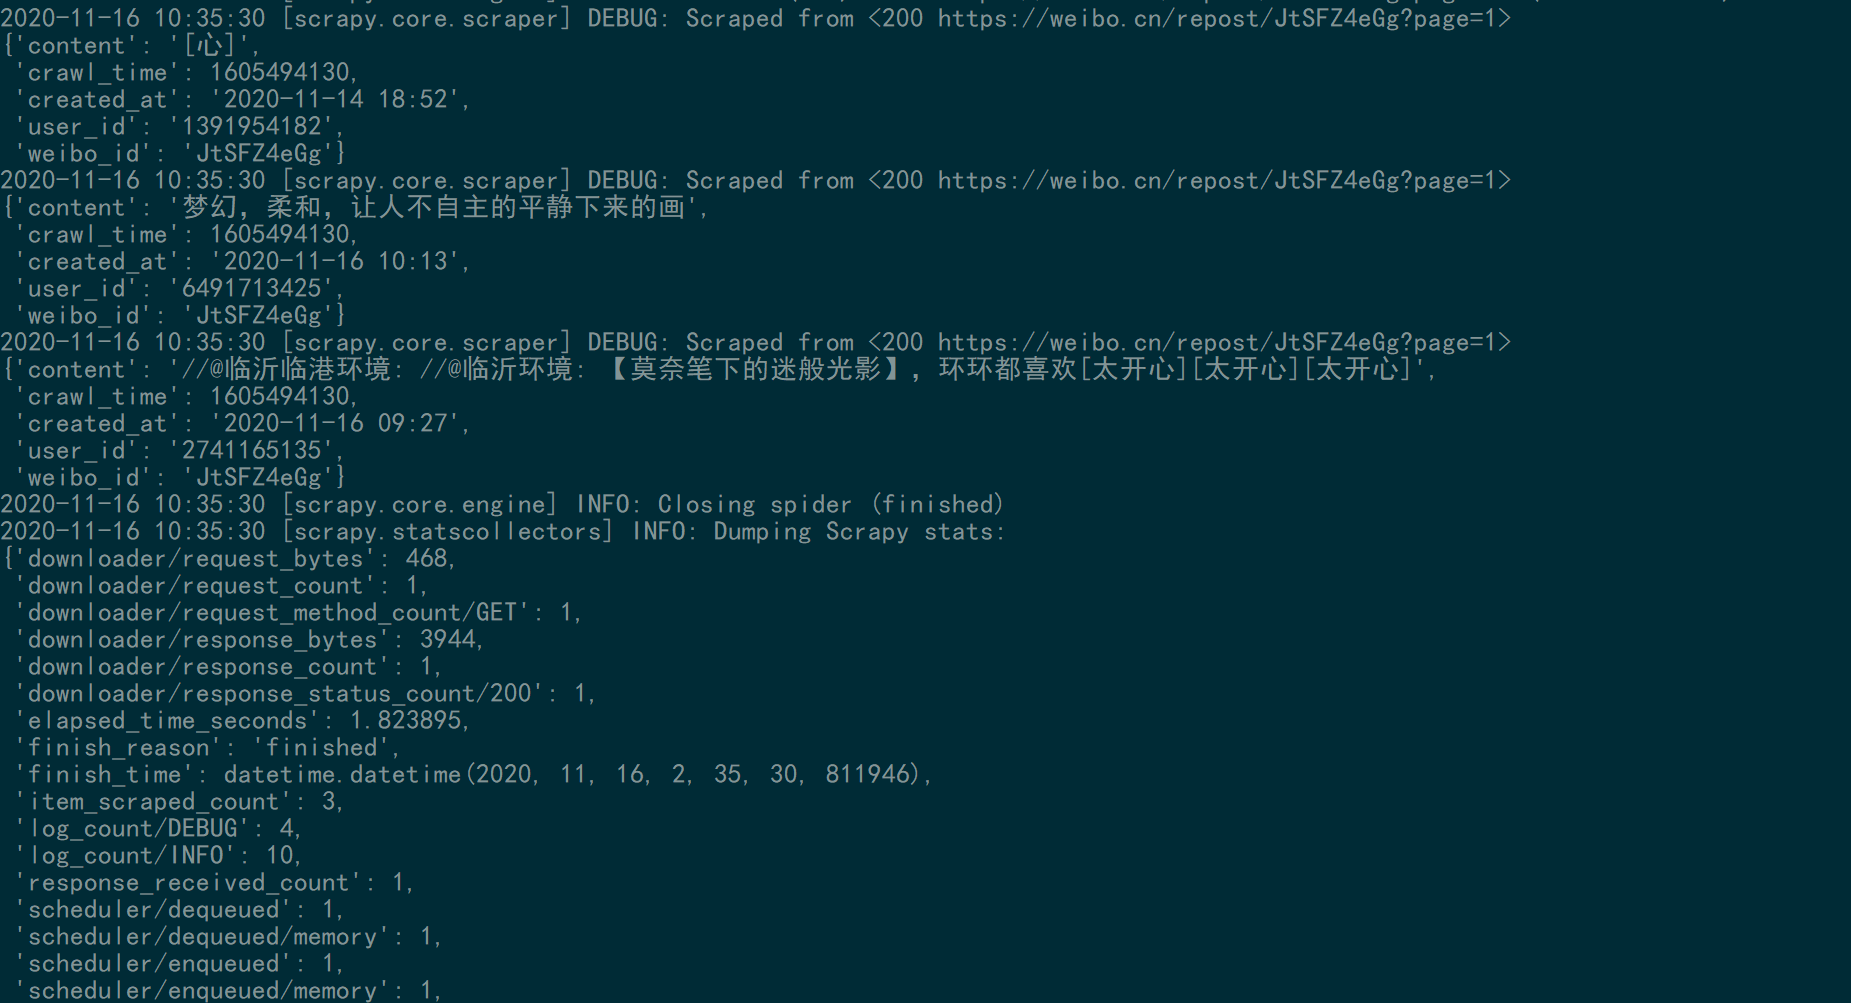
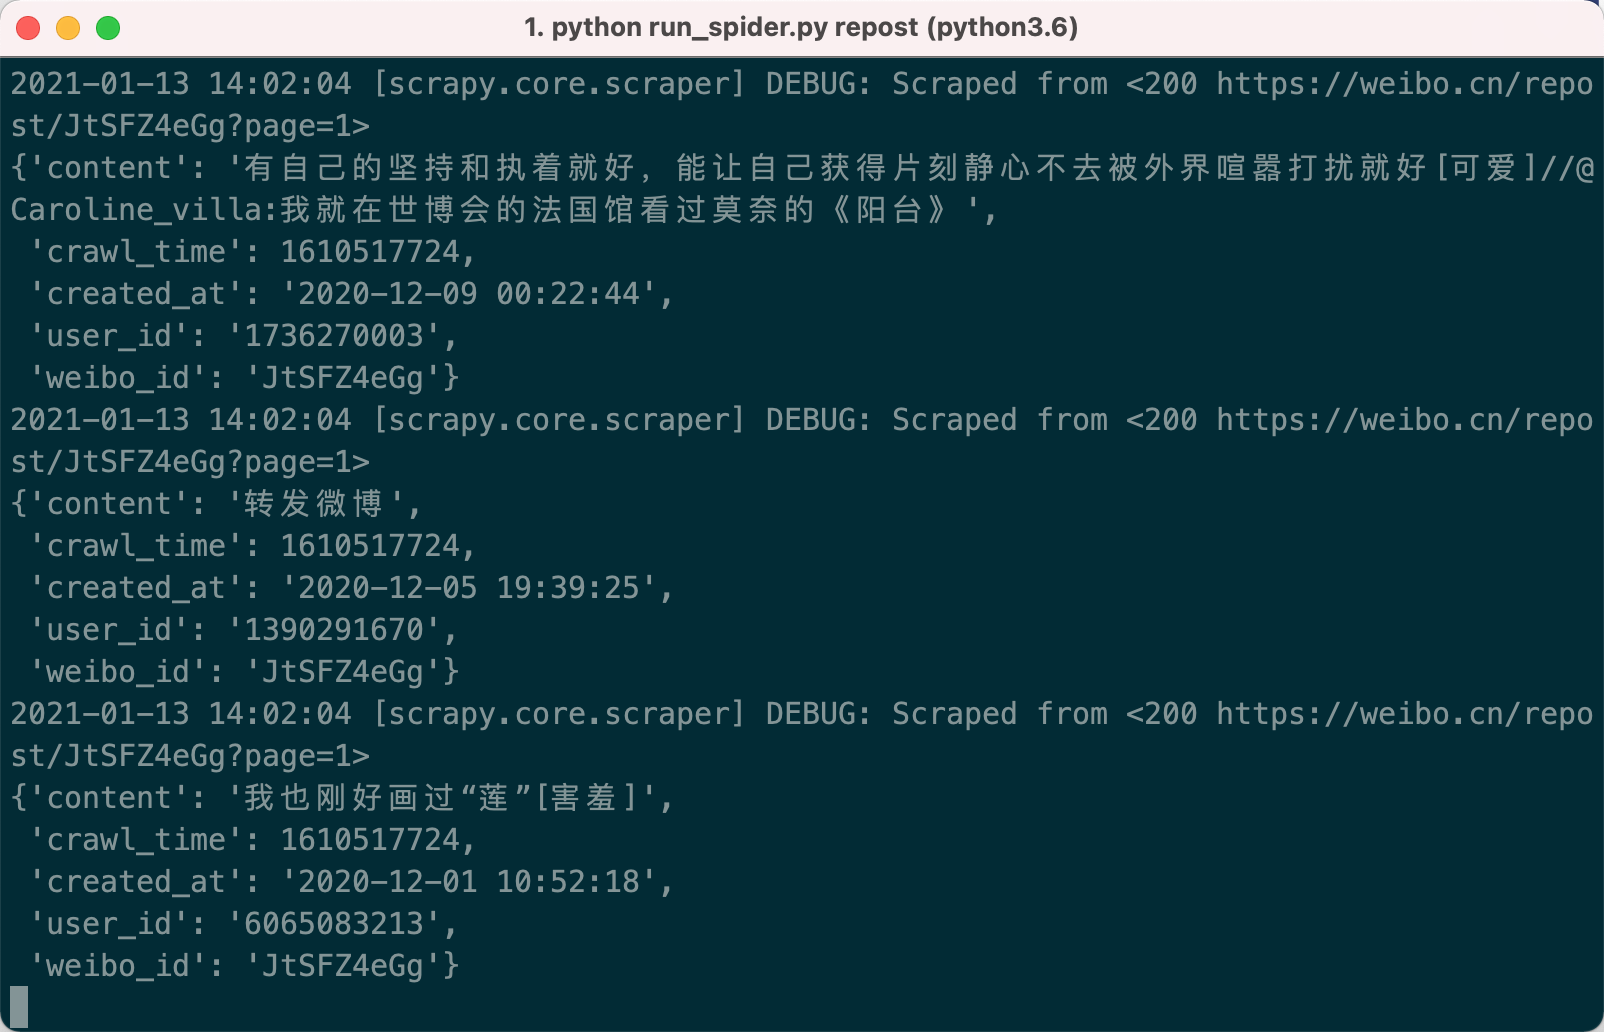
[Refactor]

Changed region(s): [[0.0, 0.0, 1.0, 1.0], [0.4364, 0.7418, 0.4988, 0.8036]]

diff --git a/weibospider/spiders/tweet.py b/weibospider/spiders/tweet.py
@@ -23,7 +23,7 @@ class TweetSpider(Spider):
     def start_requests(self):
 
         def init_url_by_user_id():
-            "crawl tweets post by users"
+            # crawl tweets post by users
             user_ids = ['1087770692', '1699432410', '1266321801']
             urls = [f'{self.base_url}/{user_id}/profile?page=1' for user_id in user_ids]
             return urls
@@ -39,21 +39,21 @@ class TweetSpider(Spider):
                          "&advancedfilter=1&starttime={}&endtime={}&sort=time&atten=1&page=1"
             while date_start <= date_end:
                 for keyword in keywords:
-                    oneday_back = date_start - time_spread
+                    one_day_back = date_start - time_spread
                     # from today's 7:00-8:00am to 23:00-24:00am
                     for hour in range(7, 24):
                         # calculation rule of starting time: start_date 8:00am + offset:16
-                        beginhour = oneday_back.strftime("%Y%m%d") + "-" + str(hour + 16)
+                        begin_hour = one_day_back.strftime("%Y%m%d") + "-" + str(hour + 16)
                         # calculation rule of ending time: (end_date+1) 8:00am + offset:-7
-                        endhour = oneday_back.strftime("%Y%m%d") + "-" + str(hour - 7)
-                        urls.append(url_format.format(keyword, beginhour, endhour))
-                    twoday_back = oneday_back - time_spread
+                        end_hour = one_day_back.strftime("%Y%m%d") + "-" + str(hour - 7)
+                        urls.append(url_format.format(keyword, begin_hour, end_hour))
+                    two_day_back = one_day_back - time_spread
                     # from today's 0:00-1:00am to 6:00-7:00am
                     for hour in range(0, 7):
                         # note the offset change bc we are two-days back now
-                        beginhour = twoday_back.strftime("%Y%m%d") + "-" + str(hour + 40)
-                        endhour = twoday_back.strftime("%Y%m%d") + "-" + str(hour + 17)
-                        urls.append(url_format.format(keyword, beginhour, endhour))
+                        begin_hour = two_day_back.strftime("%Y%m%d") + "-" + str(hour + 40)
+                        end_hour = two_day_back.strftime("%Y%m%d") + "-" + str(hour + 17)
+                        urls.append(url_format.format(keyword, begin_hour, end_hour))
                 date_start = date_start + time_spread
             return urls
 

diff --git a/weibospider/spiders/utils.py b/weibospider/spiders/utils.py
@@ -27,7 +27,7 @@ def time_fix(time_string):
     return time_string
 
 
-keyword_re = re.compile('<span class="kt">|</span>|原图|<!-- 是否进行翻译 -->|<span class="cmt">|\[组图共.张\]')
+keyword_re = re.compile('<span class="kt">|</span>|原图|<!-- 是否进行翻译 -->|<span class="cmt">|\[组图共.+张\]')
 emoji_re = re.compile('<img alt="|" src="//h5\.sinaimg(.*?)/>')
 white_space_re = re.compile('<br />')
 div_re = re.compile('</div>|<div>')

diff --git a/README.md b/README.md
@@ -1,16 +1,40 @@
-# WeiboSpider-Simple
-[English Version Readme](./README_EN.md)
+**中文说明** | [English](./README_EN.md)
 
-该版本为单机，单账号的简单版本，可以实现每天十万级微博数据的抓取.
+# WeiboSpider
+<a href="https://github.com/nghuyong/WeiboSpider/stargazers">
+    <img src="https://img.shields.io/github/stars/nghuyong/WeiboSpider.svg?colorA=orange&colorB=orange&logo=github"
+         alt="GitHub stars">
+  </a>
+  <a href="https://github.com/nghuyong/WeiboSpider/issues">
+        <img src="https://img.shields.io/github/issues/nghuyong/WeiboSpider.svg"
+             alt="GitHub issues">
+  </a>
+  <a href="https://github.com/nghuyong/WeiboSpider/">
+        <img src="https://img.shields.io/github/last-commit/nghuyong/WeiboSpider.svg">
+  </a>
+  <a href="https://github.com/nghuyong/WeiboSpider/blob/master/LICENSE">
+        <img src="https://img.shields.io/github/license/nghuyong/WeiboSpider.svg"
+             alt="GitHub license">
+</a>
+
+持续维护的新浪微博爬虫🚀🚀🚀
 
 ## 项目说明
+
+### 版本说明
+该项目分为2个分支，以满足不同的需要
+
+|分支|特点|抓取量|
+|:---:|:---:|:---:|
+|[master](https://github.com/nghuyong/WeiboSpider/tree/master)|单账号,单IP,单机器|十万级|
+|[senior](https://github.com/nghuyong/WeiboSpider/tree/senior)|账号池,IP池,Docker分布式|数亿级(**理论无上限**)|
 
 ### 支持爬虫
 - 用户信息抓取
 - 用户微博抓取
 - 用户社交关系抓取(粉丝/关注)
 - 微博评论抓取
-- 基于关键词和时间段的微博抓取
+- 基于关键词和时间段(粒度到小时)的微博抓取
 - 微博转发抓取
 
 ### 字段说明
@@ -23,7 +47,6 @@
 ```bash
 git clone git@github.com:nghuyong/WeiboSpider.git --depth 1 --no-single-branch
 cd WeiboSpider
-git checkout simple
 pip install -r requirements.txt
 ```
 除此之外，还需要安装mongodb.
@@ -53,7 +76,7 @@ Cookie字段替换成你自己的Cookie
 
 ## 运行程序
 
-可根据自己实际需要重写`./weibospider/spiders/*`中的`start_requests`函数
+**可根据自己实际需要重写`./weibospider/spiders/*`中的`start_requests`函数**
 
 ### 抓取用户信息
 
@@ -104,3 +127,9 @@ python run_spider.py repost
 
 ![](./.github/images/repost-spider.png)
 
+## 写在最后
+基于该项目已经构建千万级别的微博活跃用户数据集，以及海量的微博舆情数据集，现已公开[weibo-public-opinion-datasets](https://github.com/nghuyong/weibo-public-opinion-datasets)
+
+如果您在使用该项目中有任何问题，均可以开issue进行讨论
+
+如果您在社交媒体计算/舆情分析等领域上有好的idea，欢迎一起交流合作: nghuyong@163.com

diff --git a/README_EN.md b/README_EN.md
@@ -1,9 +1,33 @@
-# WeiboSpider-Simple
+[中文说明](./README.md) | **English**
 
-This version is a simple version with only one weibo account and only one IP.
-It can realize the daily capture of 100,000 data.
+# WeiboSpider
+<a href="https://github.com/nghuyong/WeiboSpider/stargazers">
+    <img src="https://img.shields.io/github/stars/nghuyong/WeiboSpider.svg?colorA=orange&colorB=orange&logo=github"
+         alt="GitHub stars">
+  </a>
+  <a href="https://github.com/nghuyong/WeiboSpider/issues">
+        <img src="https://img.shields.io/github/issues/nghuyong/WeiboSpider.svg"
+             alt="GitHub issues">
+  </a>
+  <a href="https://github.com/nghuyong/WeiboSpider/">
+        <img src="https://img.shields.io/github/last-commit/nghuyong/WeiboSpider.svg">
+  </a>
+  <a href="https://github.com/nghuyong/WeiboSpider/blob/master/LICENSE">
+        <img src="https://img.shields.io/github/license/nghuyong/WeiboSpider.svg"
+             alt="GitHub license">
+</a>
+
+Continuously maintained Sina Weibo crawler 🚀🚀🚀
 
 ## Introduction
+
+### Branches
+The project has 2 branches to meet different needs:
+
+|Branch|Features|Magnitude of the crawled data|
+|:---:|:---:|:---:|
+|[master](https://github.com/nghuyong/WeiboSpider/tree/master)|Single account, single IP, single machine|Hundreds of thousands|
+|[senior](https://github.com/nghuyong/WeiboSpider/tree/senior)|Account pool, IP pool, Docker|Hundreds of millions(**Theoretical unlimited**)|
 
 ### Supported crawling types
 - User Information
@@ -23,7 +47,6 @@ Note that the Python Version is Python3.6
 ```bash
 git clone git@github.com:nghuyong/WeiboSpider.git --depth 1 --no-single-branch
 cd WeiboSpider
-git checkout simple
 pip install -r requirements.txt
 ```
 In addition, you need to install mongodb.
@@ -103,3 +126,11 @@ python run_spider.py repost
 ```
 
 ![](./.github/images/repost-spider.png)
+
+
+## Last But Not The Least
+Based on this project, I have crawled millions weibo active user data, and have built many weibo public opinion datasets: [weibo-public-opinion-datasets](https://github.com/nghuyong/weibo-public-opinion-datasets).
+
+If you have any problems in using the project, you can open an issue to discuss.
+
+If you have good ideas on social media computing / public opinion analysis, feel free to email me: nghuyong@163.com
